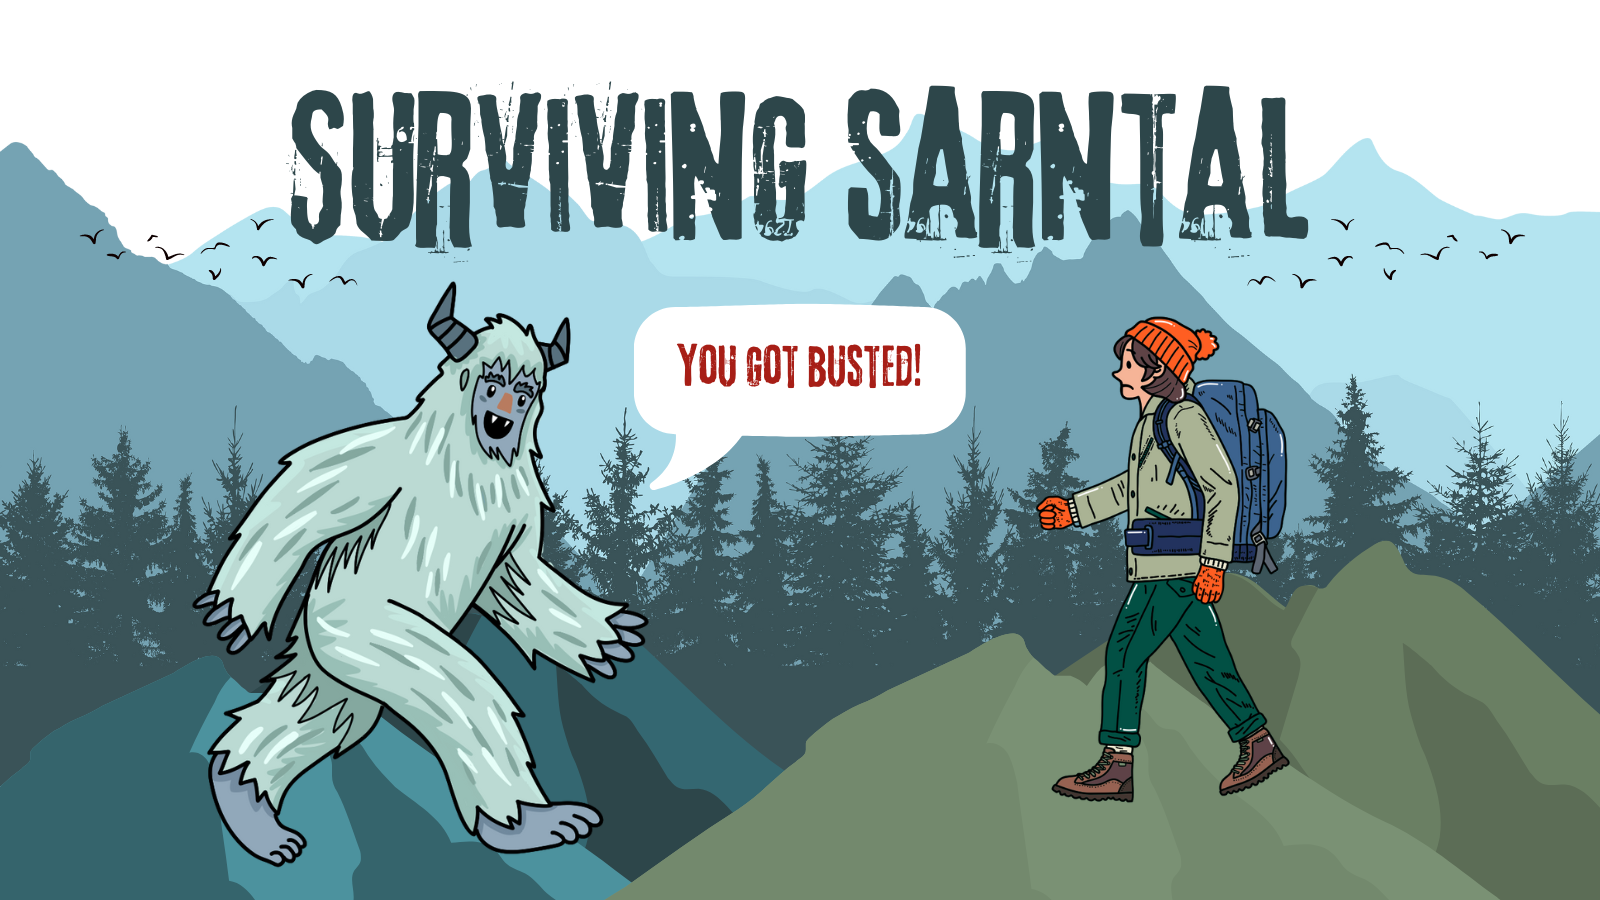
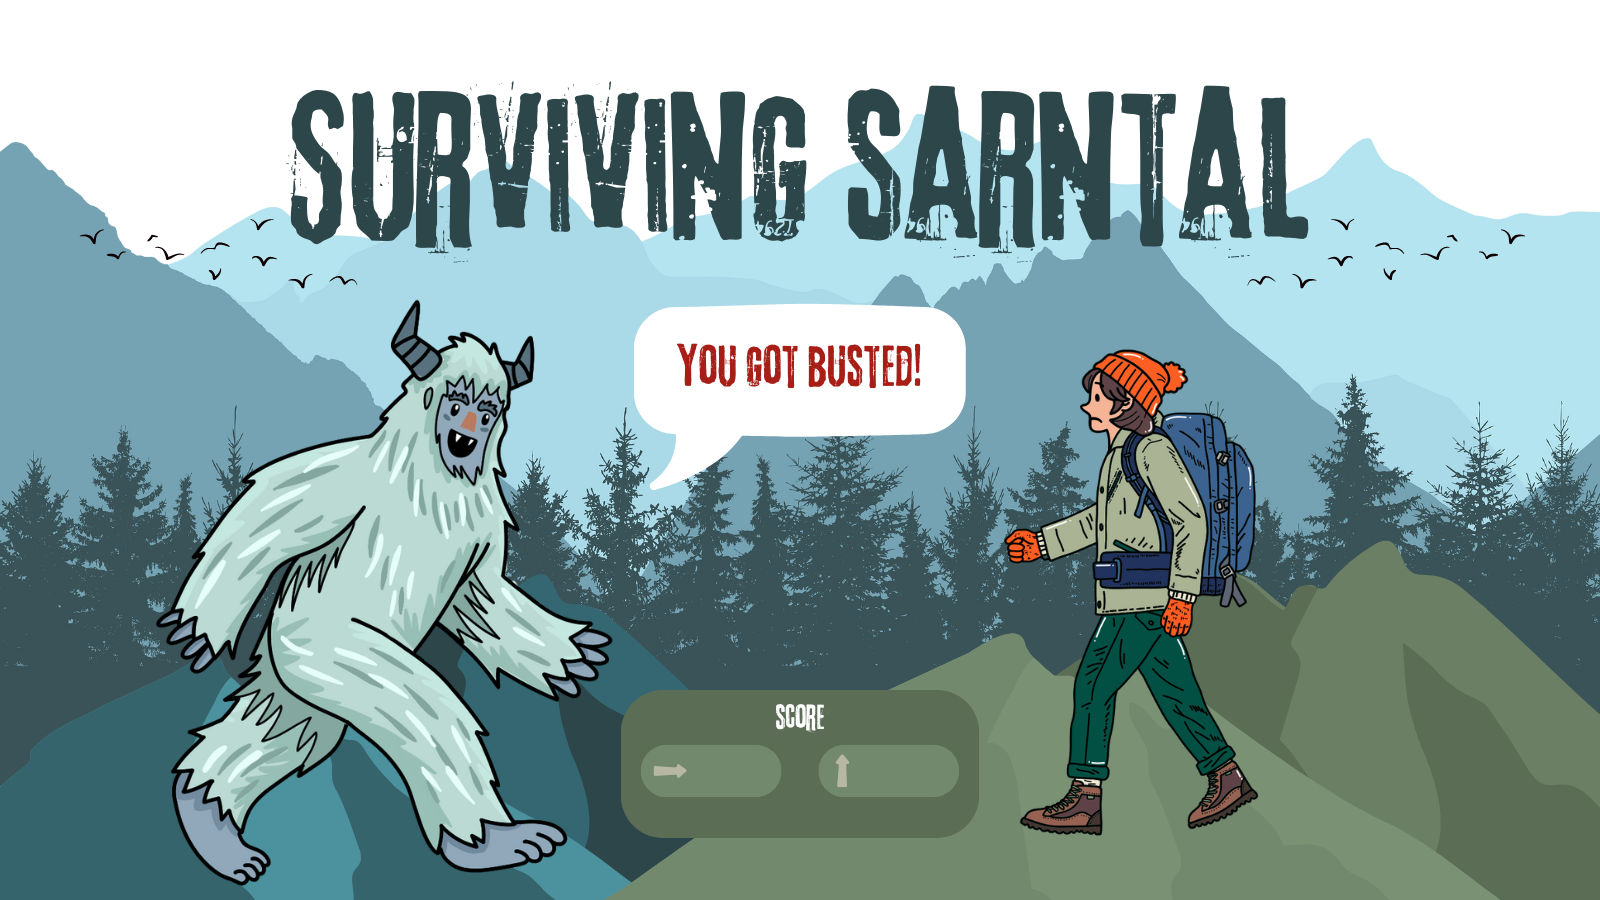
Resolve "Add score achieved to the end screen"

Changed region(s): [[0.0938, 0.3111, 0.8125, 0.9956]]

diff --git a/src/menu/FullMenuRenderer.cpp b/src/menu/FullMenuRenderer.cpp
@@ -3,6 +3,9 @@
 //
 
 #include "FullMenuRenderer.h"
+#include <iomanip>
+#include <iostream>
+#include <sstream>
 
 FullMenuRenderer::FullMenuRenderer(MenuEngine &menuEngine) : menuEngine(menuEngine) {}
 
@@ -13,6 +16,9 @@ void FullMenuRenderer::render() {
         BeginDrawing();
         this->renderBackground(screenState);
         this->renderButtons(screenState);
+        if (screenState == END_SCREEN) {
+            this->renderScoreOnEndscreen();
+        }
         EndDrawing();
     }
 }
@@ -44,4 +50,26 @@ void FullMenuRenderer::renderButton(const std::shared_ptr<Button> &button) {
     // const Vector2 origin = {width / 2, height / 2};
 
     DrawTexturePro(texture, sourceRec, destRec, {0, 0}, 0, WHITE);
+}
+
+void FullMenuRenderer::renderScoreOnEndscreen() {
+    Vector endScore = menuEngine.getAchievedGameScore();
+
+    std::ostringstream outX;
+    outX << std::fixed << std::setprecision(1) << std::round(endScore.x * 10) / 10;
+    std::string xScoreString = outX.str() + "m";
+
+    std::ostringstream outY;
+    outY << std::fixed << std::setprecision(1) << std::round(endScore.y * 10) / 10;
+    std::string yScoreString = outY.str() + "m";
+
+    const char *xScoreText = xScoreString.c_str();
+    const char *yScoreText = yScoreString.c_str();
+
+    const auto xScoreXPos = graphics::SCREEN_WIDTH_IN_PIXEL / 2 - 100;
+    const auto xScoreYpos = 6 * graphics::SCREEN_HEIGHT_IN_PIXEL / 7 - 10;
+    const auto yScoreXPos = graphics::SCREEN_WIDTH_IN_PIXEL / 2 + 70;
+    const auto yScoreYpos = 6 * graphics::SCREEN_HEIGHT_IN_PIXEL / 7 - 10;
+    DrawText(xScoreText, xScoreXPos, xScoreYpos, 20, WHITE);
+    DrawText(yScoreText, yScoreXPos, yScoreYpos, 20, WHITE);
 }

diff --git a/src/menu/MenuEngine.cpp b/src/menu/MenuEngine.cpp
@@ -17,6 +17,7 @@ MenuEngine::MenuEngine(ResourceManager &resourceManager) : resourceManager(resou
     gameplayRunning = false;
     playAgainClicked = false;
     gameClosed = false;
+    achievedGameScore = {0, 0};
 }
 ScreenState MenuEngine::getScreenState() { return currentScreen; }
 
@@ -38,11 +39,19 @@ void MenuEngine::switchScreen() {
     }
 }
 void MenuEngine::setGameplayRunning(bool isGameplayRunning) { this->gameplayRunning = isGameplayRunning; }
+
 bool MenuEngine::isGamePlayRunning() const { return gameplayRunning; }
+
 std::shared_ptr<Button> MenuEngine::getCurrentlySelectedButton() {
     return screens[currentScreen]->getCurrentlySelectedButton();
 }
+
 bool MenuEngine::getPlayAgainClicked() const { return playAgainClicked; }
+
 void MenuEngine::setPlayAgainClicked(bool playAgain) { this->playAgainClicked = playAgain; }
 
 bool MenuEngine::isGameClosed() const { return this->gameClosed; }
+
+void MenuEngine::setAchievedGameScore(const Vector &gameScore) { this->achievedGameScore = gameScore; }
+
+Vector MenuEngine::getAchievedGameScore() { return this->achievedGameScore; }

diff --git a/src/entities/implementations/World.cpp b/src/entities/implementations/World.cpp
@@ -122,9 +122,9 @@ void World::updateGameScore() {
 
 void World::reset() {
     this->terrain.reset();
-    this->resetAttributes();
     this->resetHiker();
     this->resetMonster();
+    this->resetAttributes();
 }
 
 void World::clearRocks() {
@@ -146,6 +146,8 @@ void World::resetAttributes() {
     this->setMinX(0);
     this->setMaxX(graphics::SCREEN_WIDTH_IN_METER);
     this->coinScore = 0;
+    this->gameScore.x = this->hiker.getPosition().x;
+    this->gameScore.y = this->hiker.getPosition().y;
     this->items->clear();
     this->rocks->clear();
     this->inventory.reset();

diff --git a/src/menu/MenuEngine.h b/src/menu/MenuEngine.h
@@ -19,6 +19,7 @@ class MenuEngine {
     bool gameplayRunning;
     bool playAgainClicked;
     bool gameClosed;
+    Vector achievedGameScore{};
 
   public:
     explicit MenuEngine(ResourceManager &resourceManager);
@@ -45,6 +46,8 @@ class MenuEngine {
     void setPlayAgainClicked(bool playAgainClicked);
     std::shared_ptr<Button> getCurrentlySelectedButton();
     bool isGameClosed() const;
+    void setAchievedGameScore(const Vector &gameScore);
+    Vector getAchievedGameScore();
 };
 
 #endif // SURVIVING_SARNTAL_MENUENGINE_H

diff --git a/src/entities/World.h b/src/entities/World.h
@@ -115,7 +115,6 @@ class World {
         std::make_unique<std::list<std::shared_ptr<Rock>>>();
     const std::unique_ptr<std::list<std::shared_ptr<Item>>> items =
         std::make_unique<std::list<std::shared_ptr<Item>>>();
-    void resetTerrain();
     void resetHiker();
     void resetMonster() const;
     void resetAttributes();

diff --git a/src/menu/FullMenuRenderer.h b/src/menu/FullMenuRenderer.h
@@ -14,6 +14,7 @@ class FullMenuRenderer {
     void renderButtons(ScreenState screenState);
     void renderBackground(ScreenState screenState);
     void renderButton(const std::shared_ptr<Button> &button);
+    void renderScoreOnEndscreen();
 
   public:
     void render();

diff --git a/src/game/Game.cpp b/src/game/Game.cpp
@@ -94,6 +94,7 @@ void Game::endGameplay() {
     }
     menuEngine.setGameplayRunning(false);
     menuEngine.switchTo(END_SCREEN);
+    menuEngine.setAchievedGameScore(this->world.getGameScore());
 }
 
 void Game::resetGame() {
